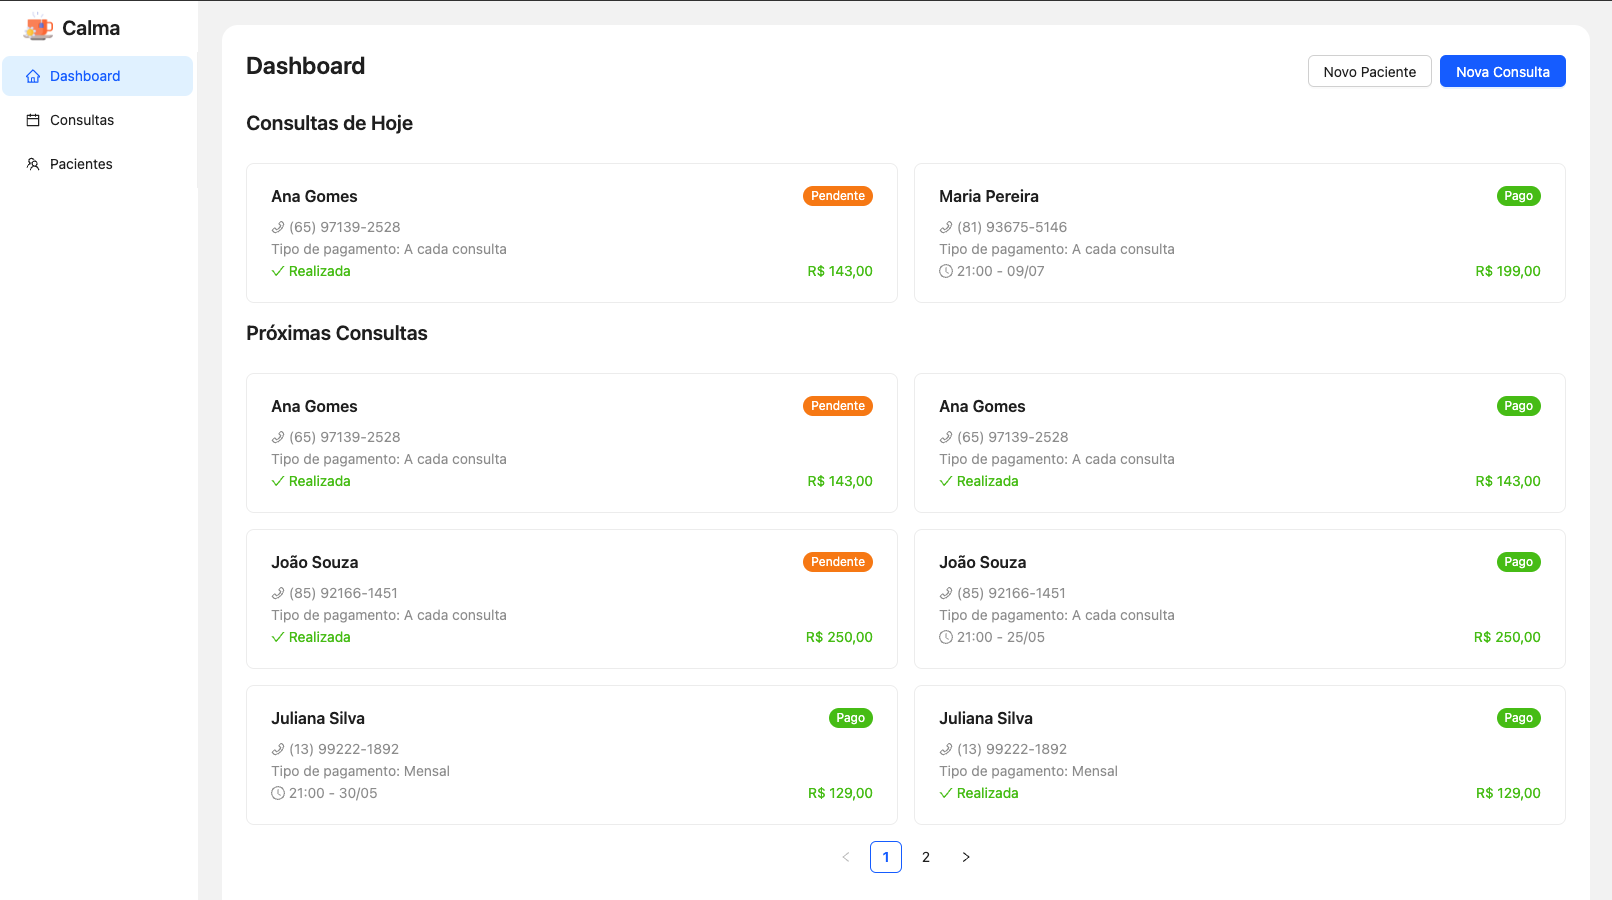
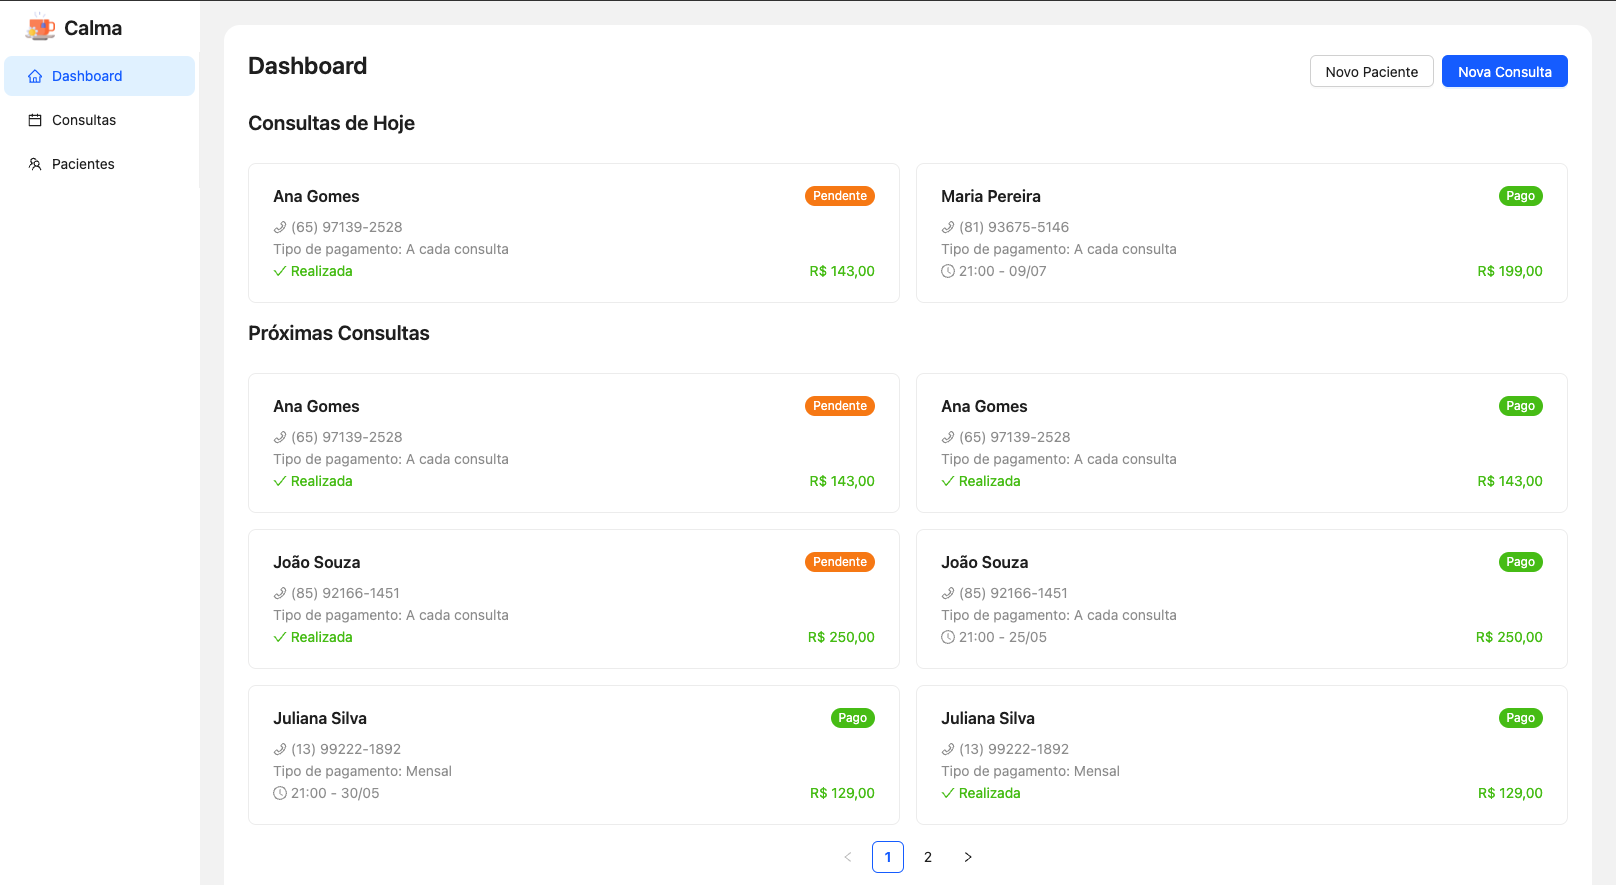
feat: add appbar to notebook component

diff --git a/src/ui/components/Notebook.tsx b/src/ui/components/Notebook.tsx
@@ -2,14 +2,23 @@ import Image from "next/image";
 
 export function Notebook() {
   return (
-    <div className="border-2 border-b-0 border-gray-300 rounded-t-[34px] z-10  w-[772px] h-[450px]">
-      <div className="relative w-[768px] h-[450px] border-16 border-b-0 rounded-t-4xl bg-black">
-        <Image
-          layout="fill"
-          src={"/assets/calma-dashboard.png"}
-          alt="calma-dashboard"
-          className="rounded-t-xl pointer-events-none"
-        />
+    <div className="border-2 border-b-0 border-gray-300 rounded-t-[26px] z-10  w-[772px] h-[452px]">
+      <div className="relative w-[768px] h-[450px] border-16 border-b-0 rounded-t-3xl bg-black">
+        <div className="h-6 w-full bg-[#3E3635] rounded-t-xl flex justify-between">
+          <div className="text-sm flex gap-2 p-2 [&_div]:size-2 [&_div]:rounded-full">
+            <div className="bg-red-400" />
+            <div className="bg-amber-400" />
+            <div className="bg-emerald-400" />
+          </div>
+        </div>
+        <div className="relative w-full h-full">
+          <Image
+            layout="fill"
+            src={"/assets/calma-dashboard.png"}
+            alt="calma-dashboard"
+            className=" pointer-events-none object-contain -mt-[12.3px]"
+          />
+        </div>
       </div>
     </div>
   );

diff --git a/src/ui/sections/MainSection.tsx b/src/ui/sections/MainSection.tsx
@@ -9,7 +9,7 @@ export function MainSection() {
       </div>
       <div className="relative w-full flex justify-center">
         <Notebook />
-        <div className="h-2/3 rounded-[48px] w-[80%] absolute bottom-[-2px] bg-orange-300" />
+        <div className="h-2/3 rounded-[48px] w-[80%] absolute bottom-0 bg-orange-300" />
       </div>
     </section>
   );
